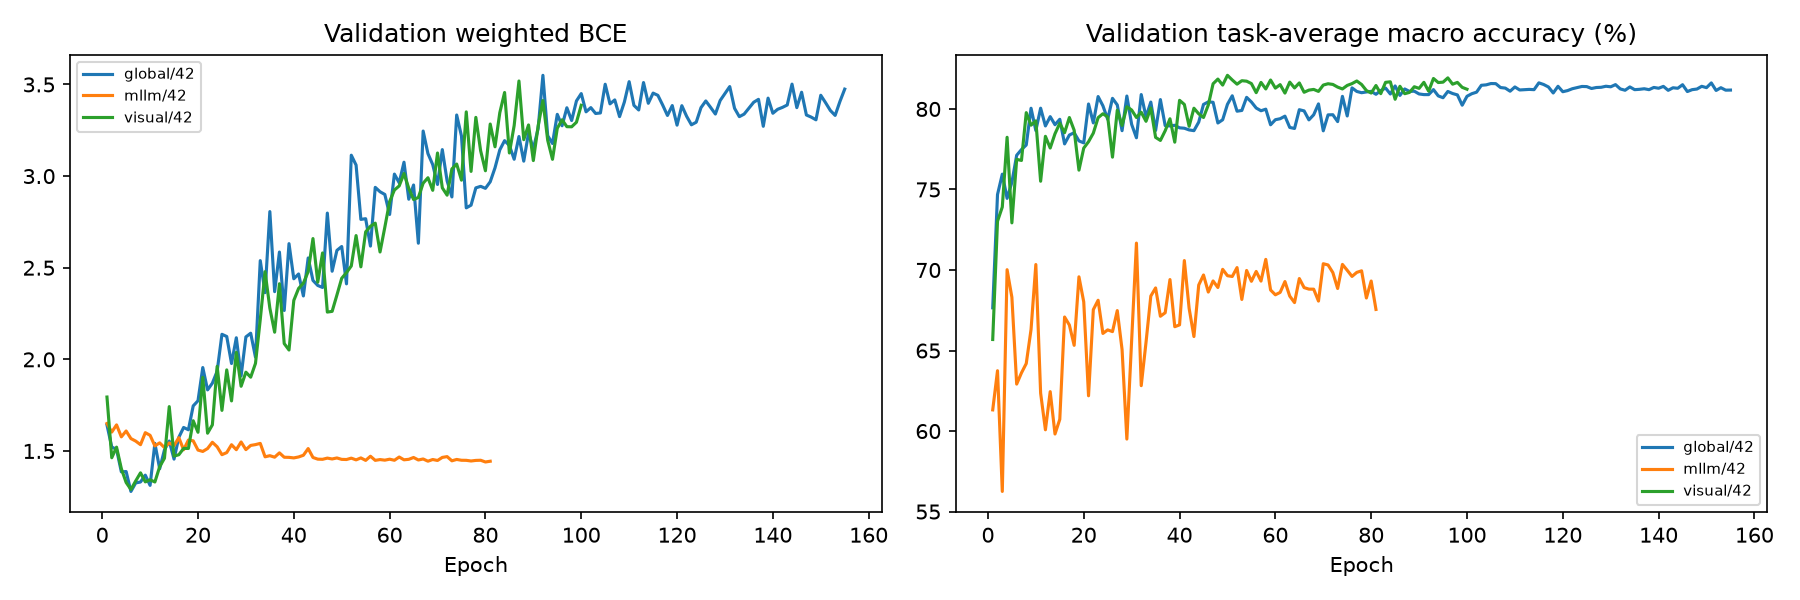
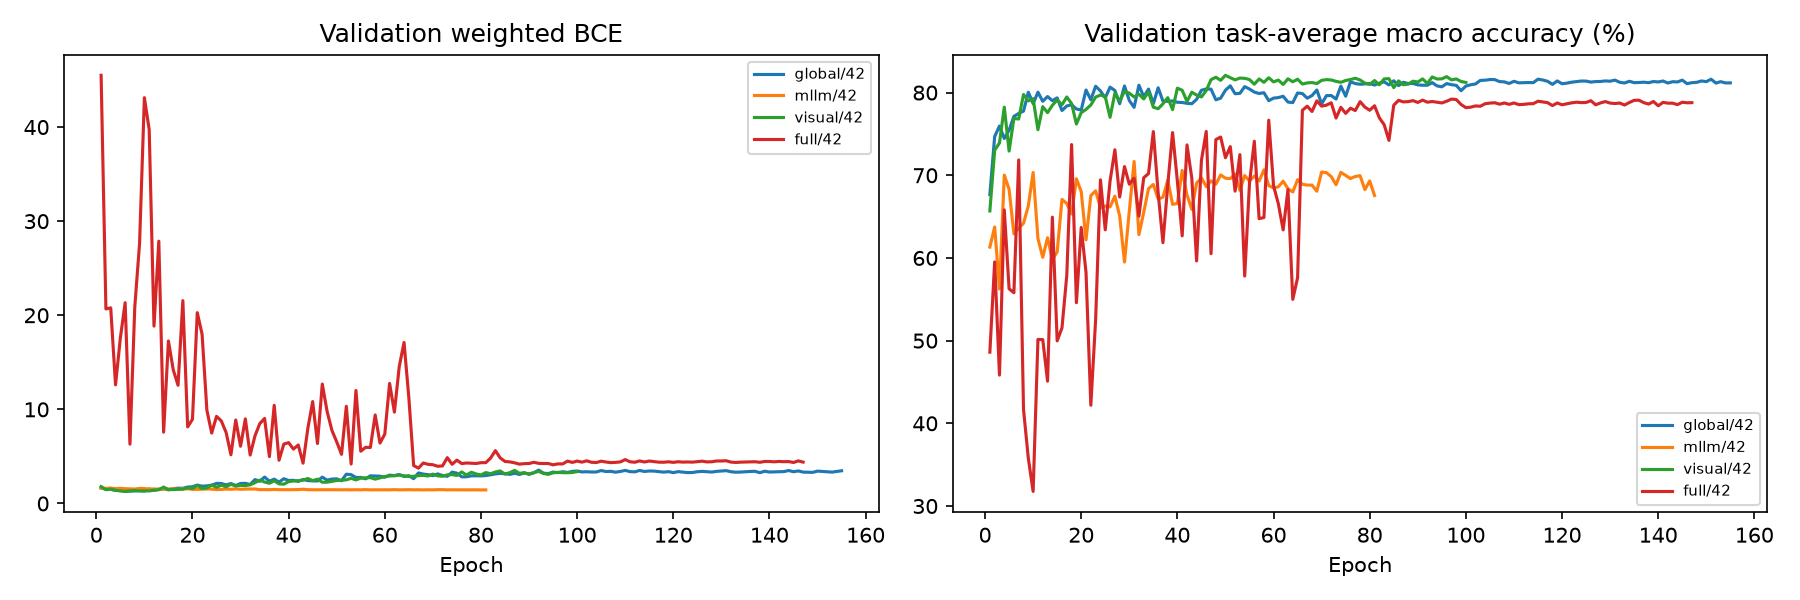
results: full seed 42 reproduction milestone

diff --git a/reports/reproduction/20261005_042629_774918_suite/reproduction_report.md b/reports/reproduction/20261005_042629_774918_suite/reproduction_report.md
@@ -12,6 +12,7 @@ code_compat 保留独立七图增强、无 ImageNet normalization、global-only 
 | global | 42 | 104 | 85.32 / 69.88 | 78.79 / 81.18 |
 | mllm | 42 | 30 | 74.32 / 62.09 | 69.68 / 77.20 |
 | visual | 42 | 49 | 84.76 / 71.47 | 79.53 / 82.09 |
+| full | 42 | 96 | 83.24 / 68.15 | 76.80 / 79.70 |
 
 六组消融和主模型多 seed 的运行状态见 `run_status.json`；未完成时不宣称整个复现完成。
 TVMoE 等外部实现/同 split 逐图预测、论文 Sankey 8×5 公式仍缺失，不能复现对应比较和图。
